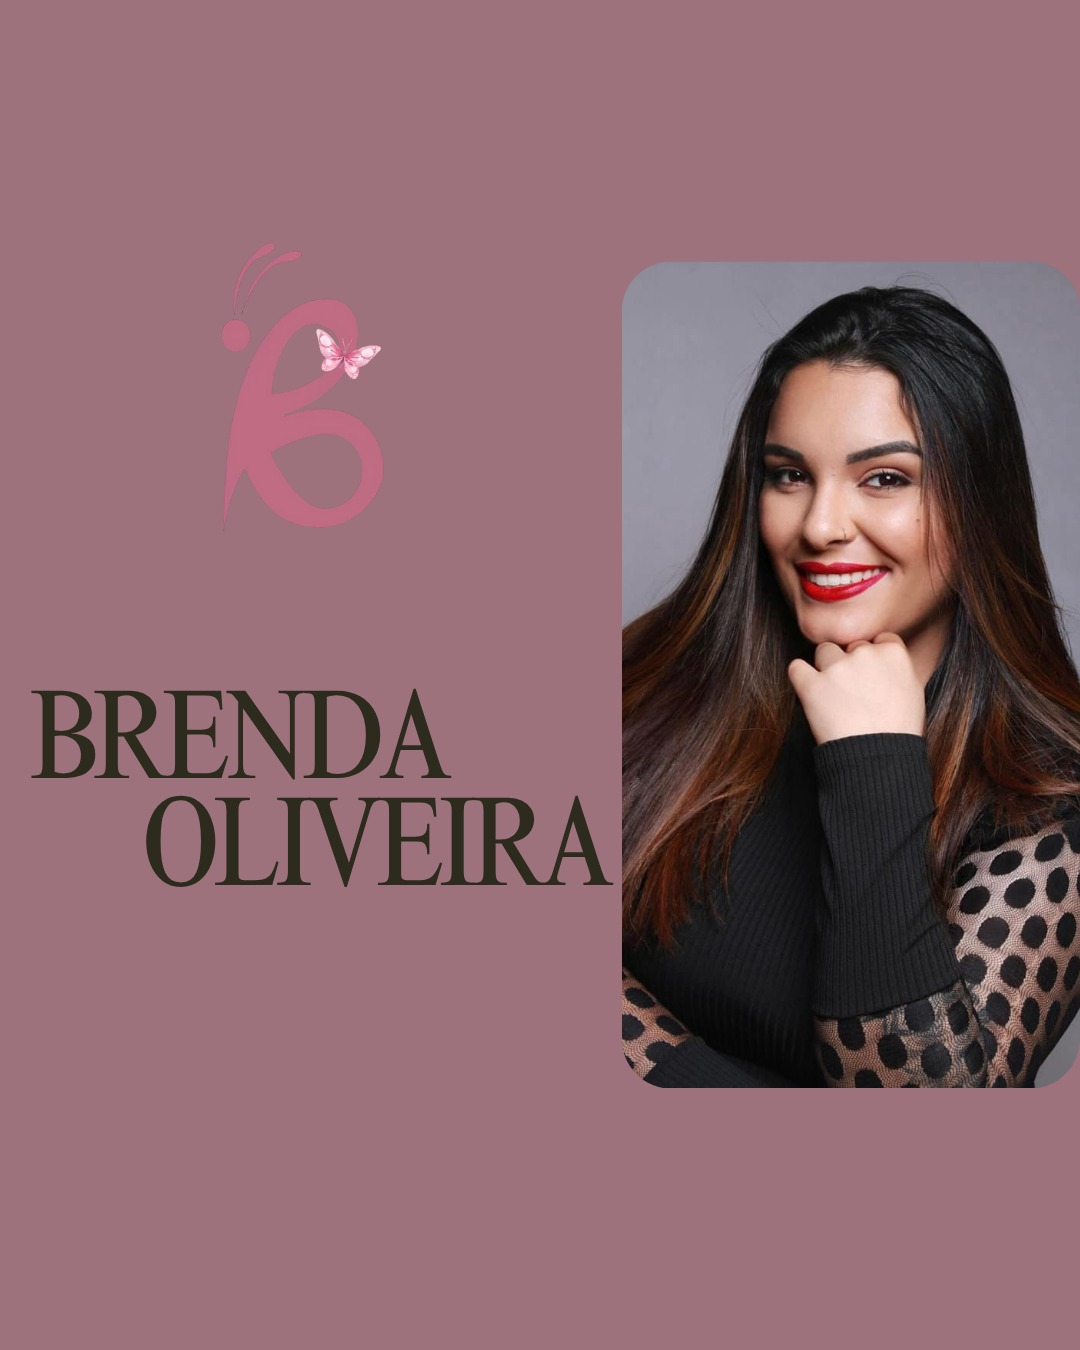
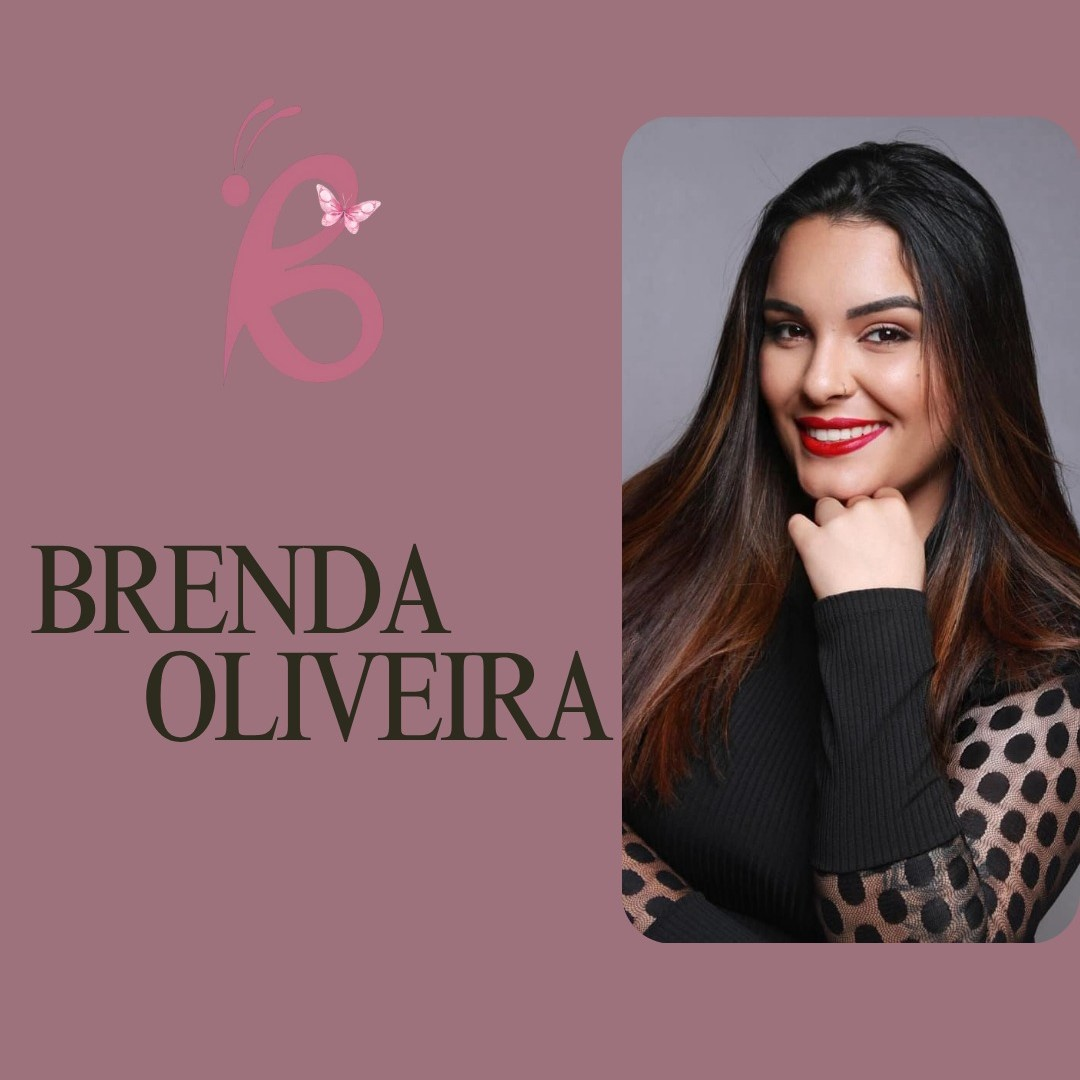
Mudança de tamanho e borda imagem incial

Changed region(s): [[0.0306, 0.0917, 1.0, 0.8861], [0.1833, 0.1222, 0.3667, 0.3972], [0.2139, 0.0917, 0.275, 0.1222]]

diff --git a/style.css b/style.css
@@ -99,7 +99,9 @@ footer {
   max-width: 700px;    /* limite máximo para não ficar gigante em telas grandes */
   height: auto;        /* mantém proporção */
   display: block;
-  margin: 0 auto; 
+  margin: 0 auto;
+  border-radius: 20px; /* arredonda as pontas */
+  box-shadow: 0 10px 30px rgba(0, 0, 0, 0.5); 
   /* border-bottom: 5px solid #a10035; */ /* ← remova ou comente */
 }
 
